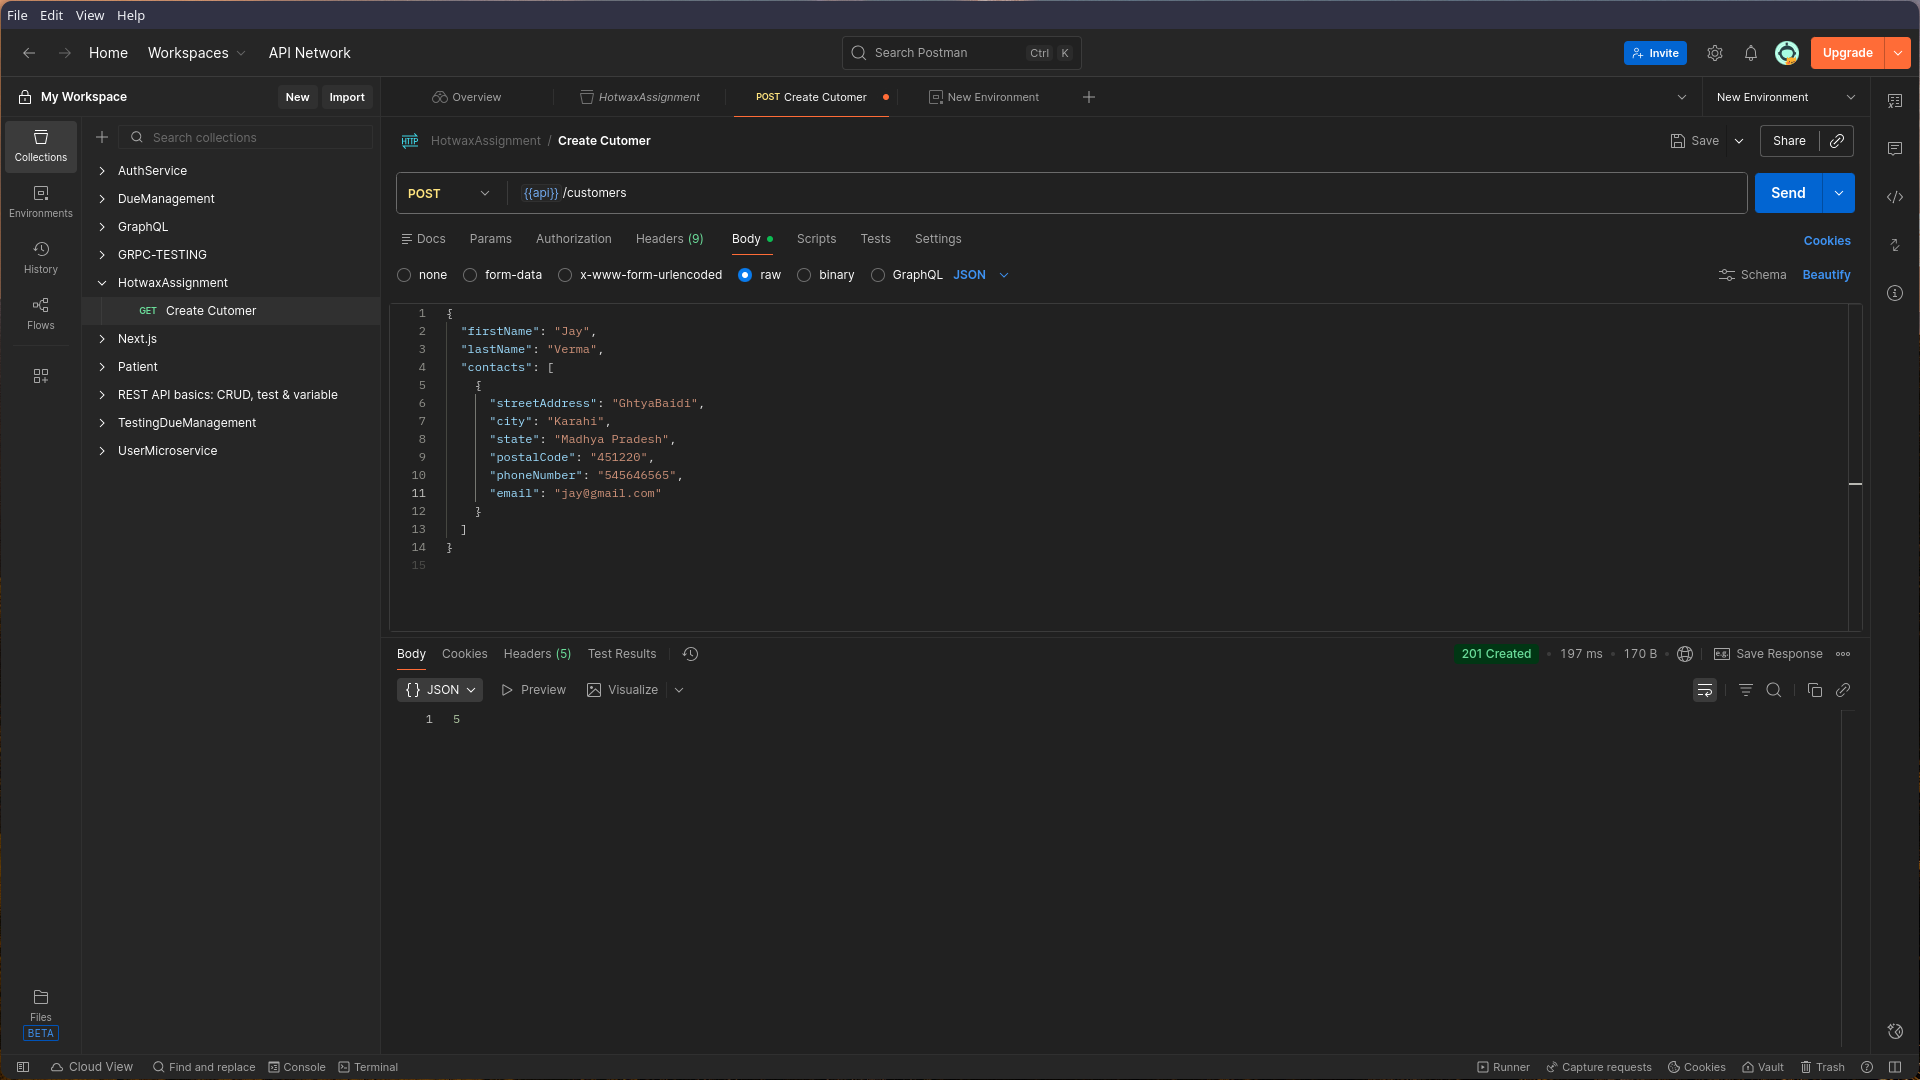
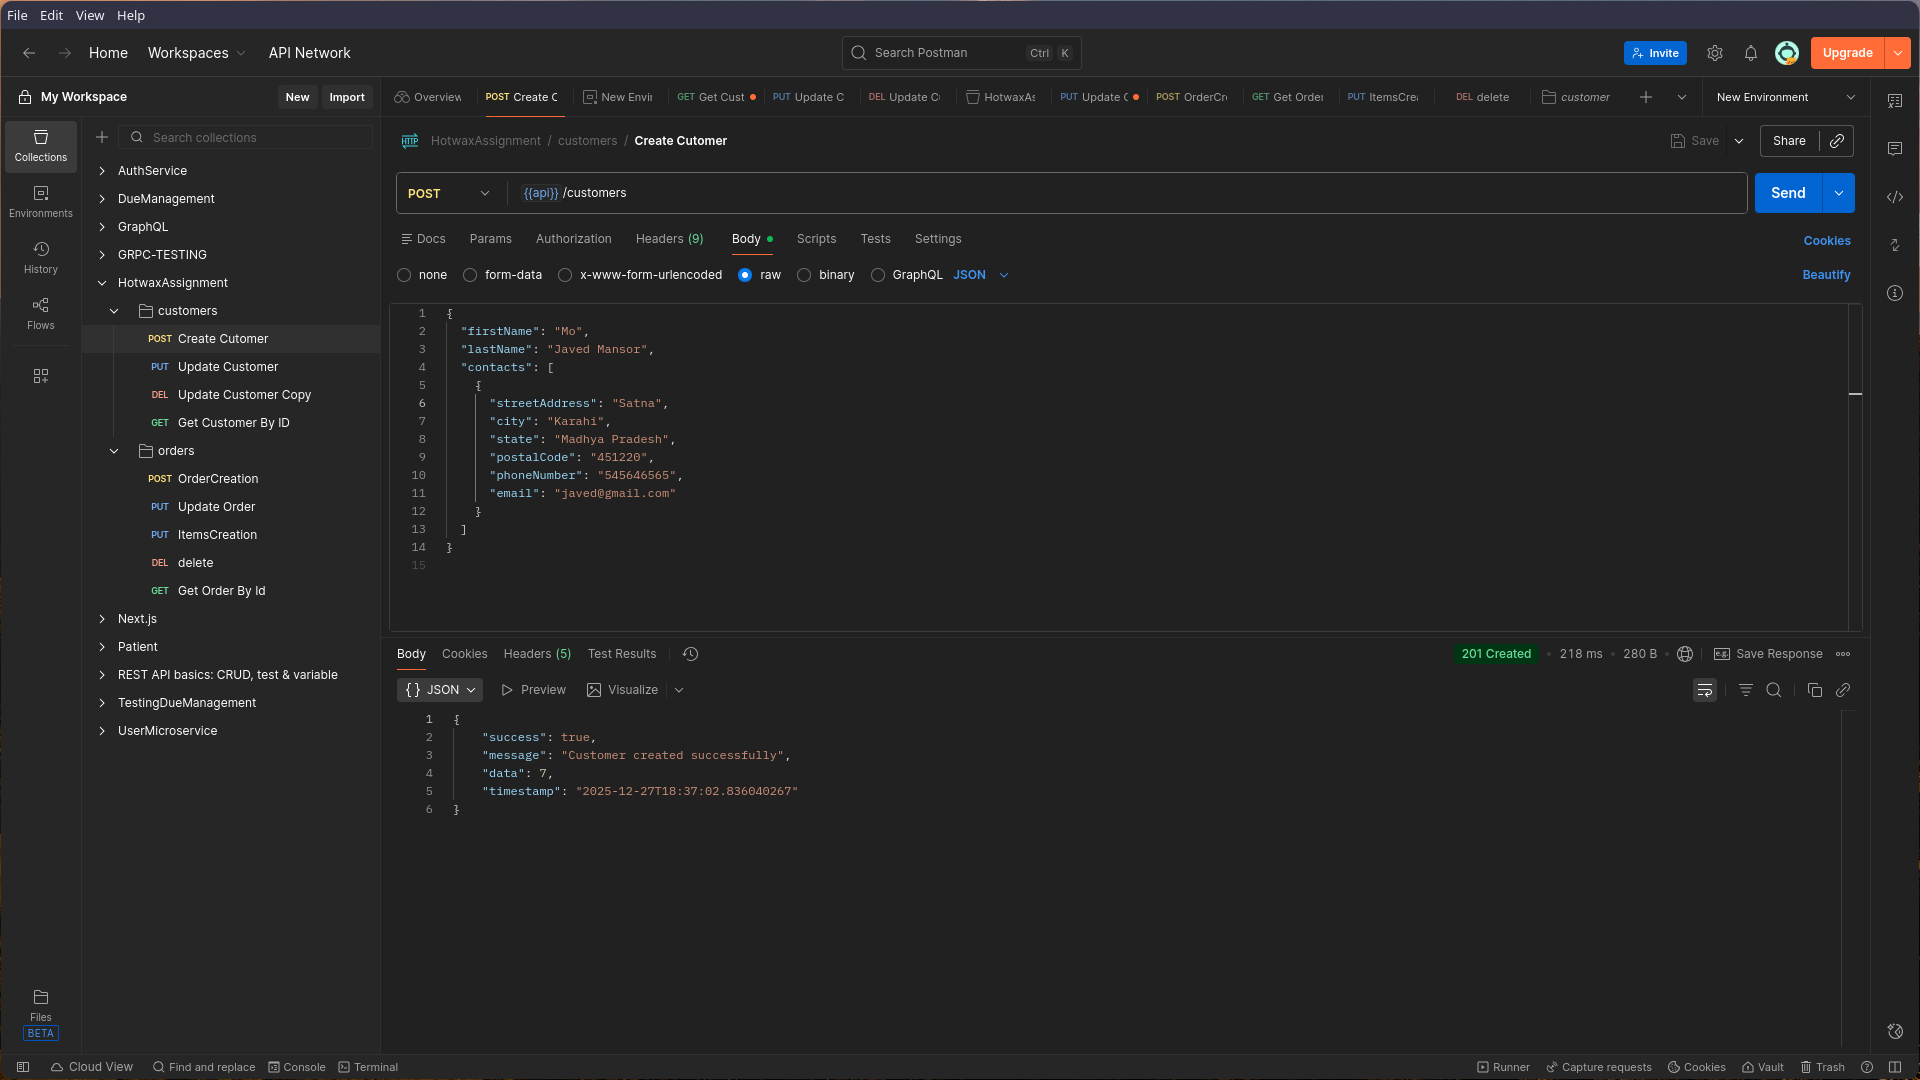
Added proper responses of api

diff --git a/src/main/java/com/hotwax/ass/controller/OrderController.java b/src/main/java/com/hotwax/ass/controller/OrderController.java
@@ -1,15 +1,14 @@
 package com.hotwax.ass.controller;
 
-import com.hotwax.ass.dto.CreateOrderRequestDTO;
-import com.hotwax.ass.dto.OrderItemRequestDTO;
-import com.hotwax.ass.dto.OrderResponseDTO;
-import com.hotwax.ass.dto.UpdateOrderItemDTO;
+import com.hotwax.ass.dto.*;
 import com.hotwax.ass.service.OrderService;
 import jakarta.validation.Valid;
 import lombok.RequiredArgsConstructor;
 import org.springframework.http.HttpStatus;
 import org.springframework.http.ResponseEntity;
 import org.springframework.web.bind.annotation.*;
+
+import java.time.LocalDateTime;
 
 @RestController
 @RequestMapping("/orders")
@@ -18,52 +17,121 @@ public class OrderController {
 
     private final OrderService service;
 
+    // ================= CREATE ORDER =================
     @PostMapping
-    public ResponseEntity<Integer> create(
+    public ResponseEntity<ApiResponse<Integer>> create(
             @Valid @RequestBody CreateOrderRequestDTO dto) {
+
+        Integer orderId = service.createOrder(dto);
+
         return ResponseEntity.status(HttpStatus.CREATED)
-                .body(service.createOrder(dto));
+                .body(new ApiResponse<>(
+                        true,
+                        "Order created successfully",
+                        orderId,
+                        LocalDateTime.now()
+                ));
     }
 
+    // ================= GET ORDER =================
     @GetMapping("/{id}")
-    public ResponseEntity<OrderResponseDTO> get(@PathVariable Integer id) {
-        return ResponseEntity.ok(service.getOrder(id));
+    public ResponseEntity<ApiResponse<OrderResponseDTO>> get(
+            @PathVariable Integer id) {
+
+        return ResponseEntity.ok(
+                new ApiResponse<>(
+                        true,
+                        "Order fetched successfully",
+                        service.getOrder(id),
+                        LocalDateTime.now()
+                )
+        );
     }
 
+    // ================= UPDATE ORDER =================
     @PutMapping("/{id}")
-    public ResponseEntity<Void> update(
+    public ResponseEntity<ApiResponse<Void>> update(
             @PathVariable Integer id,
             @RequestParam Integer shippingContactId,
             @RequestParam Integer billingContactId) {
+
         service.updateOrder(id, shippingContactId, billingContactId);
-        return ResponseEntity.ok().build();
+
+        return ResponseEntity.ok(
+                new ApiResponse<>(
+                        true,
+                        "Order updated successfully",
+                        null,
+                        LocalDateTime.now()
+                )
+        );
     }
 
+    // ================= DELETE ORDER =================
     @DeleteMapping("/{id}")
-    public ResponseEntity<Void> delete(@PathVariable Integer id) {
+    public ResponseEntity<ApiResponse<Void>> delete(@PathVariable Integer id) {
+
         service.deleteOrder(id);
-        return ResponseEntity.noContent().build();
+
+        return ResponseEntity.ok(
+                new ApiResponse<>(
+                        true,
+                        "Order deleted successfully",
+                        null,
+                        LocalDateTime.now()
+                )
+        );
     }
 
+    // ================= ADD ORDER ITEM =================
     @PostMapping("/{orderId}/items")
-    public ResponseEntity<Void> addItem(
+    public ResponseEntity<ApiResponse<Void>> addItem(
             @PathVariable Integer orderId,
             @Valid @RequestBody OrderItemRequestDTO dto) {
+
         service.addItem(orderId, dto);
-        return ResponseEntity.status(HttpStatus.CREATED).build();
+
+        return ResponseEntity.status(HttpStatus.CREATED)
+                .body(new ApiResponse<>(
+                        true,
+                        "Order item added successfully",
+                        null,
+                        LocalDateTime.now()
+                ));
     }
 
+    // ================= UPDATE ORDER ITEM =================
     @PutMapping("/{orderId}/items/{itemId}")
-    public ResponseEntity<Void> updateItem(
+    public ResponseEntity<ApiResponse<Void>> updateItem(
             @PathVariable Integer itemId,
             @Valid @RequestBody UpdateOrderItemDTO dto) {
+
         service.updateItem(itemId, dto);
-        return ResponseEntity.ok().build();
+
+        return ResponseEntity.ok(
+                new ApiResponse<>(
+                        true,
+                        "Order item updated successfully",
+                        null,
+                        LocalDateTime.now()
+                )
+        );
     }
 
+    // ================= DELETE ORDER ITEM =================
     @DeleteMapping("/{orderId}/items/{itemId}")
-    public ResponseEntity<Void> deleteItem(@PathVariable Integer itemId) {
+    public ResponseEntity<ApiResponse<Void>> deleteItem(
+            @PathVariable Integer itemId) {
+
         service.deleteItem(itemId);
-        return ResponseEntity.noContent().build();
+
+        return ResponseEntity.ok(
+                new ApiResponse<>(
+                        true,
+                        "Order item deleted successfully",
+                        null,
+                        LocalDateTime.now()
+                )
+        );
     }
 }

diff --git a/src/main/java/com/hotwax/ass/controller/CustomerController.java b/src/main/java/com/hotwax/ass/controller/CustomerController.java
@@ -1,5 +1,6 @@
 package com.hotwax.ass.controller;
 
+import com.hotwax.ass.dto.ApiResponse;
 import com.hotwax.ass.dto.CreateCustomerDTO;
 import com.hotwax.ass.dto.CustomerResponseDTO;
 import com.hotwax.ass.dto.UpdateCustomerDTO;
@@ -10,6 +11,8 @@ import org.springframework.http.HttpStatus;
 import org.springframework.http.ResponseEntity;
 import org.springframework.web.bind.annotation.*;
 
+import java.time.LocalDateTime;
+
 @RestController
 @RequestMapping("/customers")
 @RequiredArgsConstructor
@@ -18,30 +21,69 @@ public class CustomerController {
     private final CustomerService service;
 
     @PostMapping
-    public ResponseEntity<Integer> create(
+    public ResponseEntity<ApiResponse<Integer>> create(
             @Valid @RequestBody CreateCustomerDTO dto) {
+
+        Integer customerId = service.create(dto);
+
         return ResponseEntity.status(HttpStatus.CREATED)
-                .body(service.create(dto));
+                .body(new ApiResponse<>(
+                        true,
+                        "Customer created successfully",
+                        customerId,
+                        LocalDateTime.now()
+                ));
     }
+
 
     @GetMapping("/{id}")
-    public ResponseEntity<CustomerResponseDTO> get(@PathVariable Integer id) {
-        return ResponseEntity.ok(service.getById(id));
+    public ResponseEntity<ApiResponse<CustomerResponseDTO>> get(
+            @PathVariable Integer id) {
+
+        return ResponseEntity.ok(
+                new ApiResponse<>(
+                        true,
+                        "Customer fetched successfully",
+                        service.getById(id),
+                        LocalDateTime.now()
+                )
+        );
     }
 
+
     @PutMapping("/{id}")
-    public ResponseEntity<Void> update(
+    public ResponseEntity<ApiResponse<Void>> update(
             @PathVariable Integer id,
             @Valid @RequestBody UpdateCustomerDTO dto) {
+
         service.update(id, dto);
-        return ResponseEntity.ok().build();
+
+        return ResponseEntity.ok(
+                new ApiResponse<>(
+                        true,
+                        "Customer updated successfully",
+                        null,
+                        LocalDateTime.now()
+                )
+        );
     }
 
     @DeleteMapping("/{id}")
-    public ResponseEntity<Void> delete(@PathVariable Integer id) {
+    public ResponseEntity<ApiResponse<Void>> delete(
+            @PathVariable Integer id) {
+
         service.delete(id);
-        return ResponseEntity.noContent().build();
+
+        return ResponseEntity.ok(
+                new ApiResponse<>(
+                        true,
+                        "Customer deleted successfully",
+                        null,
+                        LocalDateTime.now()
+                )
+        );
     }
+
 }
 
 

diff --git a/src/main/java/com/hotwax/ass/dto/ApiResponse.java b/src/main/java/com/hotwax/ass/dto/ApiResponse.java
@@ -1,0 +1,11 @@
+package com.hotwax.ass.dto;
+
+import java.time.LocalDateTime;
+
+public record ApiResponse<T>(
+        boolean success,
+        String message,
+        T data,
+        LocalDateTime timestamp
+) {
+}
